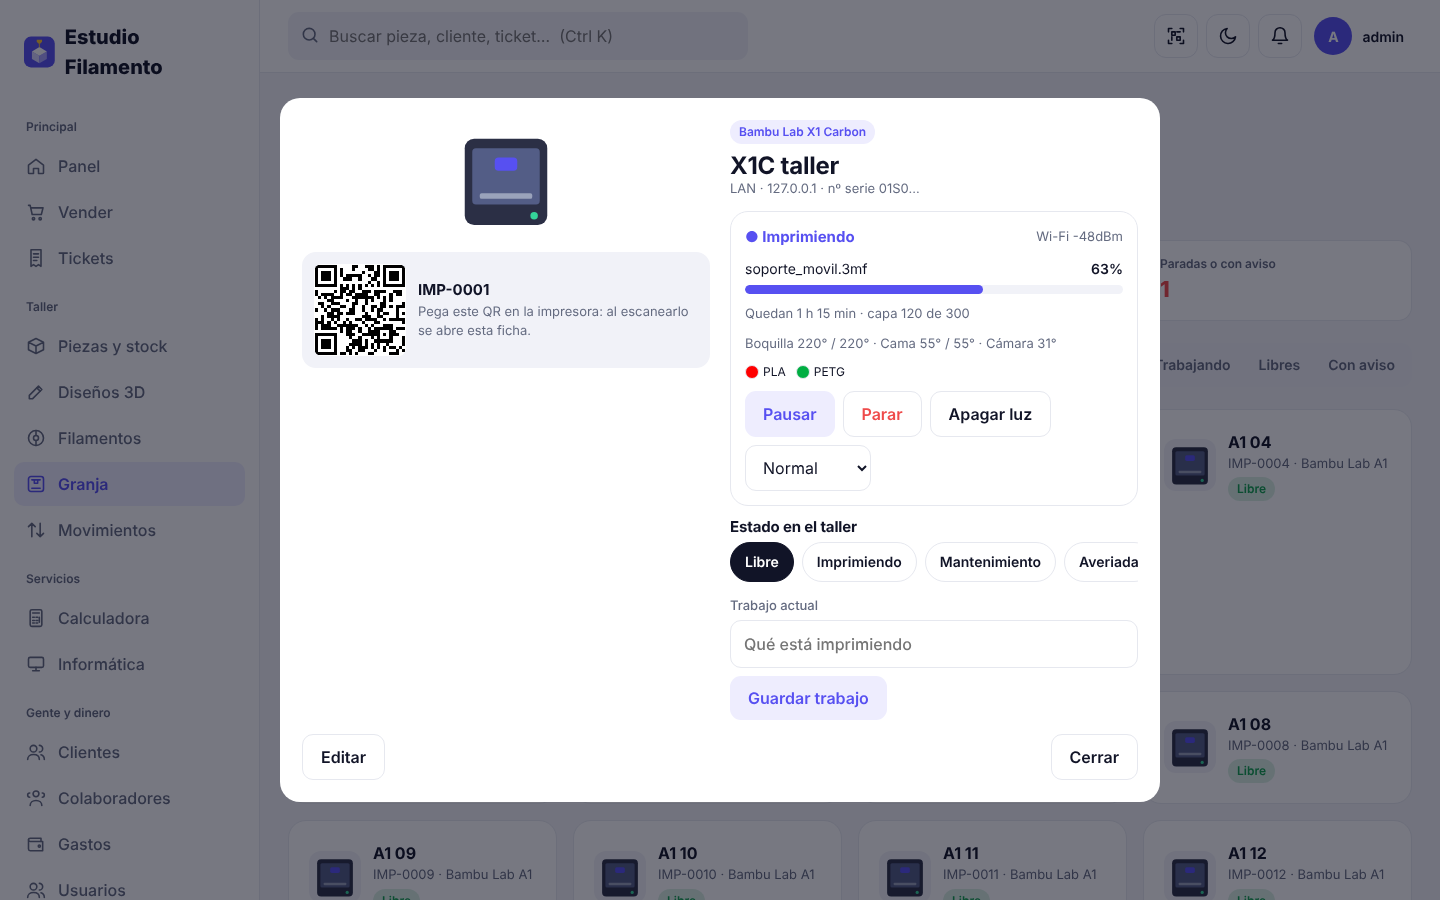
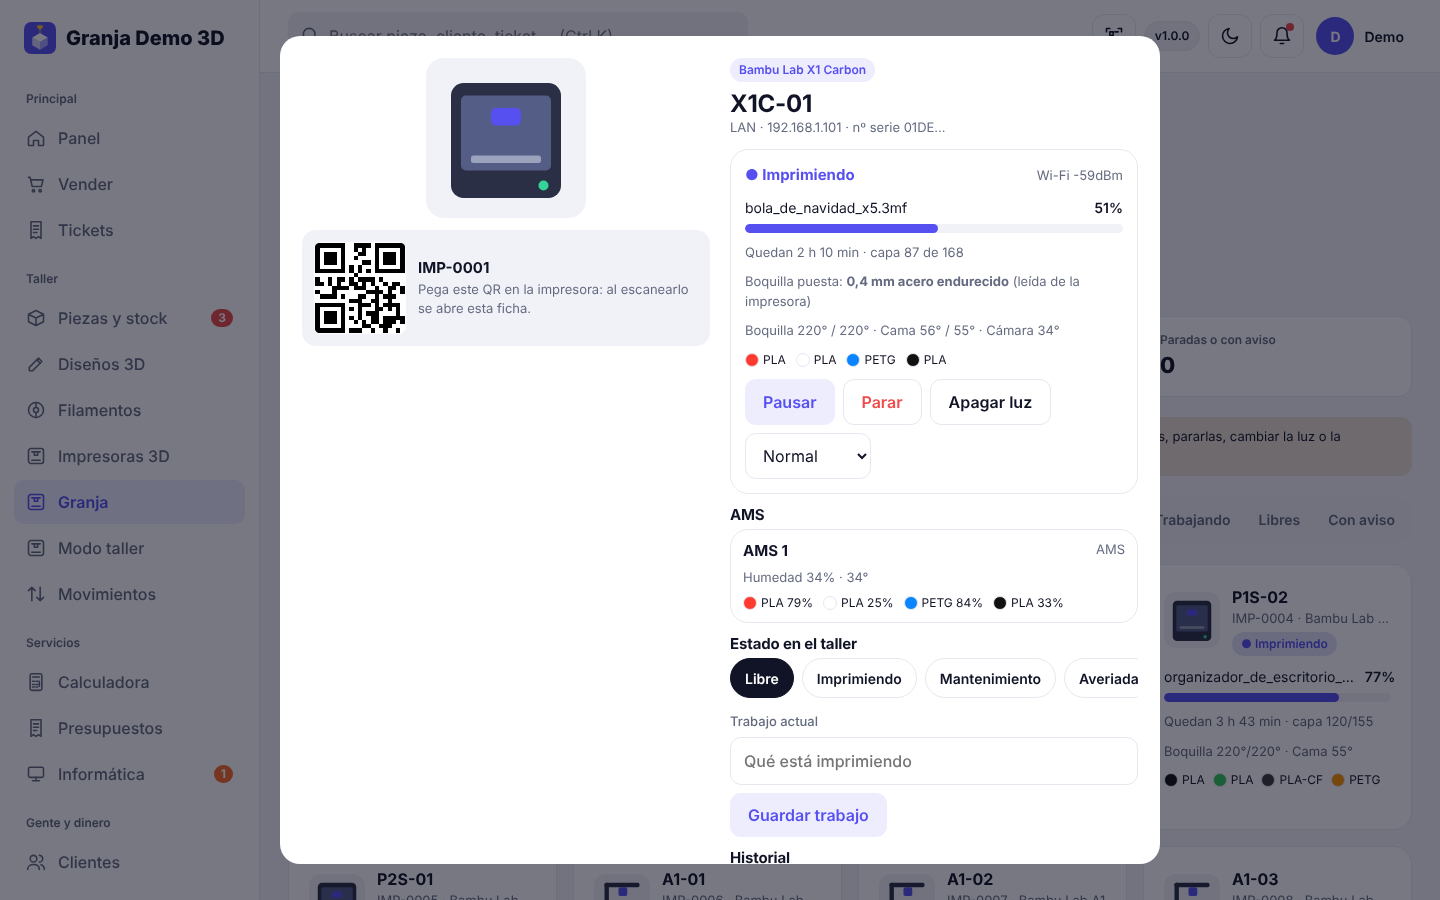
Capturas de granja, estadísticas y modo taller en el README; tarjetas del modo taller más anchas
Claude-Session: https://claude.ai/code/session_01LFHSCNGZ7LN1LQq2t9rgJR

diff --git a/public/index.html b/public/index.html
@@ -60,14 +60,14 @@ aside.side{background:var(--side);border-right:1px solid var(--line);position:st
 .kz-clock{font-size:30px;font-weight:800;font-variant-numeric:tabular-nums}.kz-actions{display:flex;gap:8px}
 .kz-btn{white-space:nowrap;min-height:52px;padding:0 18px;border-radius:14px;border:0;background:var(--pri);color:#fff;font-weight:700;font-size:17px;cursor:pointer;touch-action:manipulation}.kz-btn.gh{background:var(--soft);color:var(--ink);border:1px solid var(--line)}.kz-btn.ok{background:#12a150}.kz-btn.bad{background:#ef4b4b}.kz-btn.ksm{min-height:44px;font-size:15px;padding:0 14px}.kz-btn.big{min-height:64px;font-size:19px;text-align:left}.kz-btn:active{transform:scale(.97)}
 .kz-main{display:grid;grid-template-columns:minmax(0,1fr) 380px;gap:14px;align-items:start}@media(max-width:1000px){.kz-main{grid-template-columns:minmax(0,1fr)}}
-.kz-grid{display:grid;grid-template-columns:repeat(auto-fill,minmax(300px,1fr));gap:14px}
+.kz-grid{display:grid;grid-template-columns:repeat(auto-fill,minmax(330px,1fr));gap:14px}
 .kz-card{background:var(--card);border:1px solid var(--line);border-radius:20px;padding:14px}
-.kz-pr{display:grid;grid-template-columns:96px minmax(0,1fr);gap:14px;border-left:8px solid var(--c);background:linear-gradient(90deg,color-mix(in srgb,var(--c) 10%,var(--card)),var(--card) 60%)}
-.kz-ph{width:96px;height:96px;border-radius:16px;overflow:hidden;background:var(--soft);cursor:pointer}.kz-body{display:grid;gap:6px;min-width:0}
-.kz-head{display:flex;justify-content:space-between;align-items:center;gap:8px}.kz-head b{font-size:20px}.kz-badge{background:var(--c);color:#fff;border-radius:999px;padding:4px 10px;font-size:13px;font-weight:700;white-space:nowrap}
+.kz-pr{display:grid;grid-template-columns:72px minmax(0,1fr);gap:14px;border-left:8px solid var(--c);background:linear-gradient(90deg,color-mix(in srgb,var(--c) 10%,var(--card)),var(--card) 60%)}
+.kz-ph{width:72px;height:72px;border-radius:16px;overflow:hidden;background:var(--soft);cursor:pointer}.kz-body{display:grid;gap:6px;min-width:0}
+.kz-head{display:flex;justify-content:space-between;align-items:center;gap:8px}.kz-head b{font-size:20px;overflow:hidden;text-overflow:ellipsis;white-space:nowrap;min-width:0}.kz-badge{background:var(--c);color:#fff;border-radius:999px;padding:4px 10px;font-size:13px;font-weight:700;white-space:nowrap}
 .kz-job{font-weight:600;font-size:16px;overflow:hidden;text-overflow:ellipsis;white-space:nowrap}.kz-mut{color:var(--mut);font-size:14px}
 .kz-pct{font-size:40px;font-weight:800;line-height:1;color:var(--c)}.kz-bar{height:12px;border-radius:99px;background:var(--soft);overflow:hidden}.kz-bar i{display:block;height:100%;background:var(--c,var(--pri));border-radius:99px}.kz-bar.ksm{height:6px;margin-top:4px;--c:#12a150}
-.kz-row{display:flex;gap:8px;margin-top:4px}.kz-row .kz-btn{flex:1}
+.kz-row{display:grid;grid-template-columns:repeat(auto-fit,minmax(118px,1fr));gap:8px;margin-top:4px}.kz-row .kz-btn{padding:0 10px}
 @media(max-width:560px){.kz-pr{grid-template-columns:64px minmax(0,1fr)}.kz-ph{width:64px;height:64px}.kz-clock{font-size:22px;margin-left:auto}.kz-pct{font-size:32px}.kz-row .kz-btn{font-size:15px;padding:0 8px}.kz-stats{order:3;flex-basis:100%;font-size:13px;gap:10px}.kz-actions{margin-left:auto}.kz-top{gap:10px}}
 .kz-q{display:grid;gap:10px}.kz-qi{display:grid;grid-template-columns:52px minmax(0,1fr) auto;gap:10px;align-items:center;padding:8px 0;border-top:1px solid var(--line)}
 .kz-qth{width:52px;height:52px;border-radius:12px;background:var(--soft);display:grid;place-items:center;font-size:24px;overflow:hidden}.kz-qth img{width:100%;height:100%;object-fit:cover}

diff --git a/README.md b/README.md
@@ -85,6 +85,10 @@ Hecho con Node.js (un solo archivo, sin dependencias, SQLite integrado) y JavaSc
 | **Gastos** por categoría y por persona | **Clientes**: lo que gastan y lo que deben |
 | ![Diseños 3D](docs/capturas/disenos.png) | ![Movimientos](docs/capturas/movimientos.png) |
 | **Diseños 3D** | **Movimientos** de stock |
+| ![Impresoras 3D](docs/capturas/impresoras-3d.png) | ![Boquillas con un toque](docs/capturas/boquillas.png) |
+| **Impresoras 3D** | **Boquillas con un toque** |
+| ![Categorías de informática](docs/capturas/informatica-categorias.png) | ![De dónde sale el beneficio](docs/capturas/beneficio.png) |
+| **Categorías de informática con precio** | **Desglose del beneficio** |
 | ![Modo oscuro](docs/capturas/modo-oscuro.png) | ![Piezas en modo oscuro](docs/capturas/piezas-oscuro.png) |
 | **Modo oscuro** | **Modo oscuro** en piezas |
 | ![Ajustes](docs/capturas/ajustes.png) | ![Entrar](docs/capturas/entrar.png) |
@@ -159,6 +163,14 @@ conecta: **[docs/GRANJA.md](docs/GRANJA.md)**.
 ![Granja de impresoras](docs/capturas/granja.png)
 
 ![Control en directo de una Bambu Lab](docs/capturas/granja-control.png)
+
+![Estadísticas, costes y actividad de la granja](docs/capturas/granja-estadisticas.png)
+
+### Modo taller (tablet o móvil)
+
+![Modo taller](docs/capturas/modo-taller.png)
+
+<img src="docs/capturas/modo-taller-movil.png" width="300" alt="Modo taller en el móvil">
 
 ## App para Android
 
